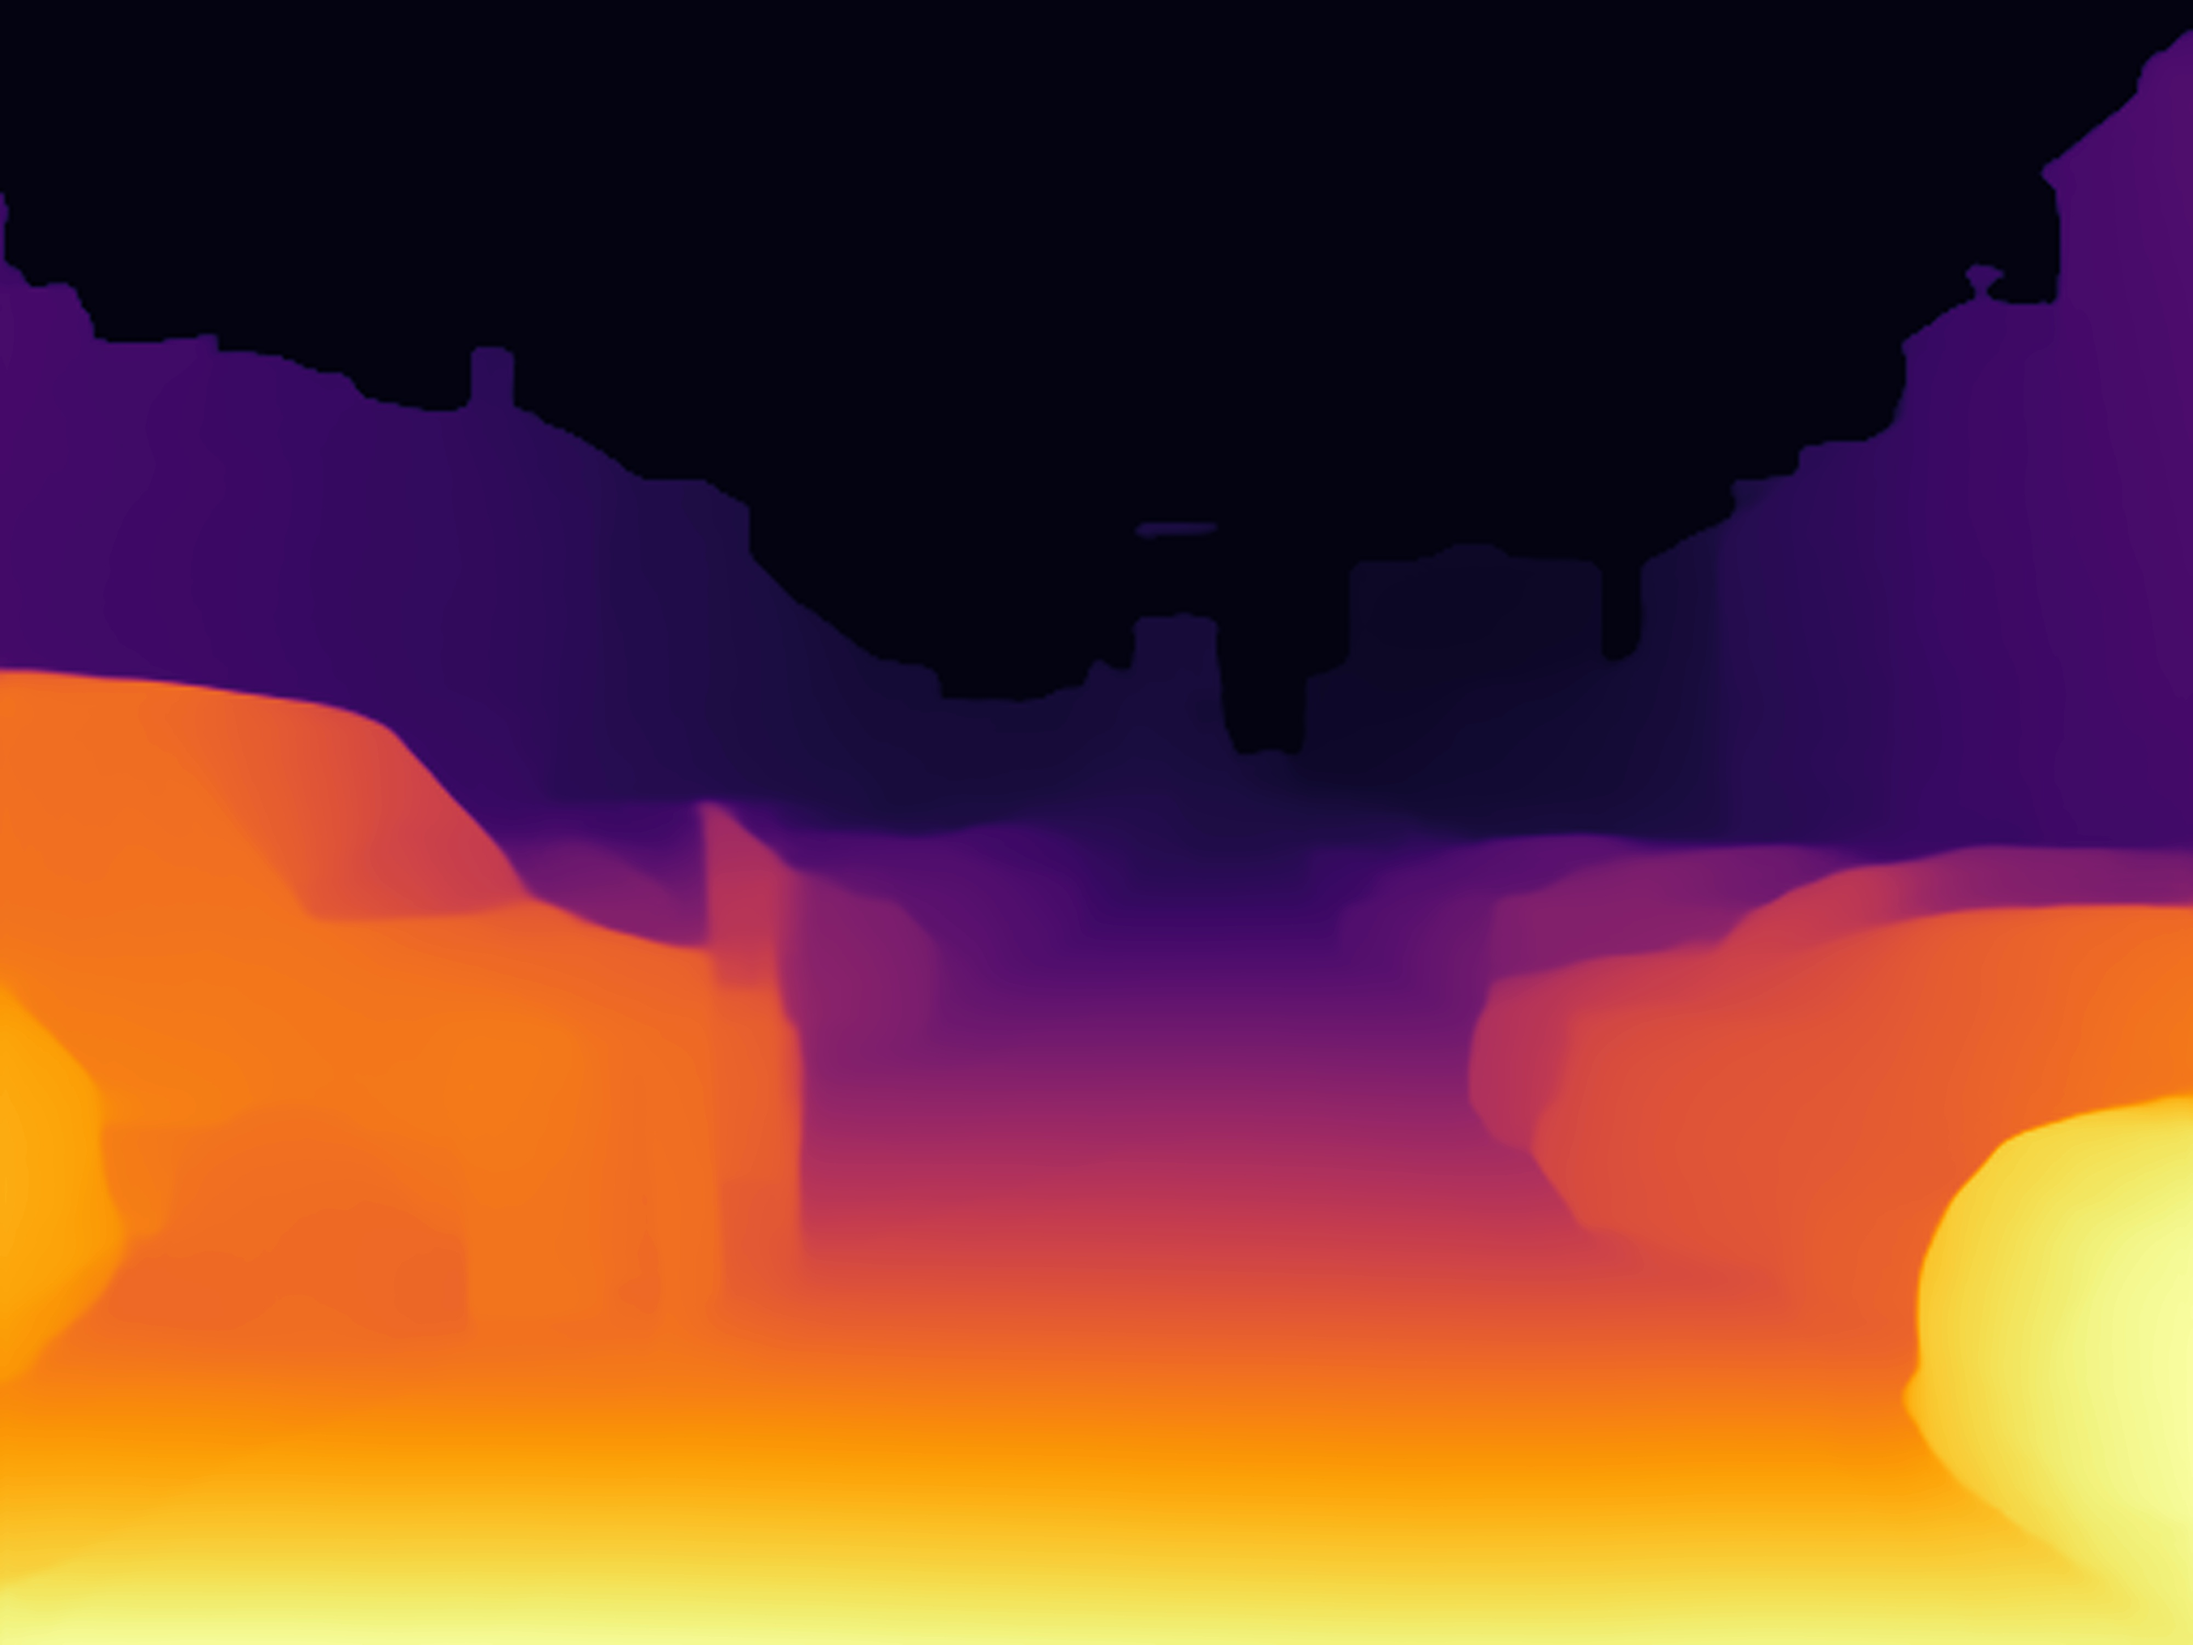
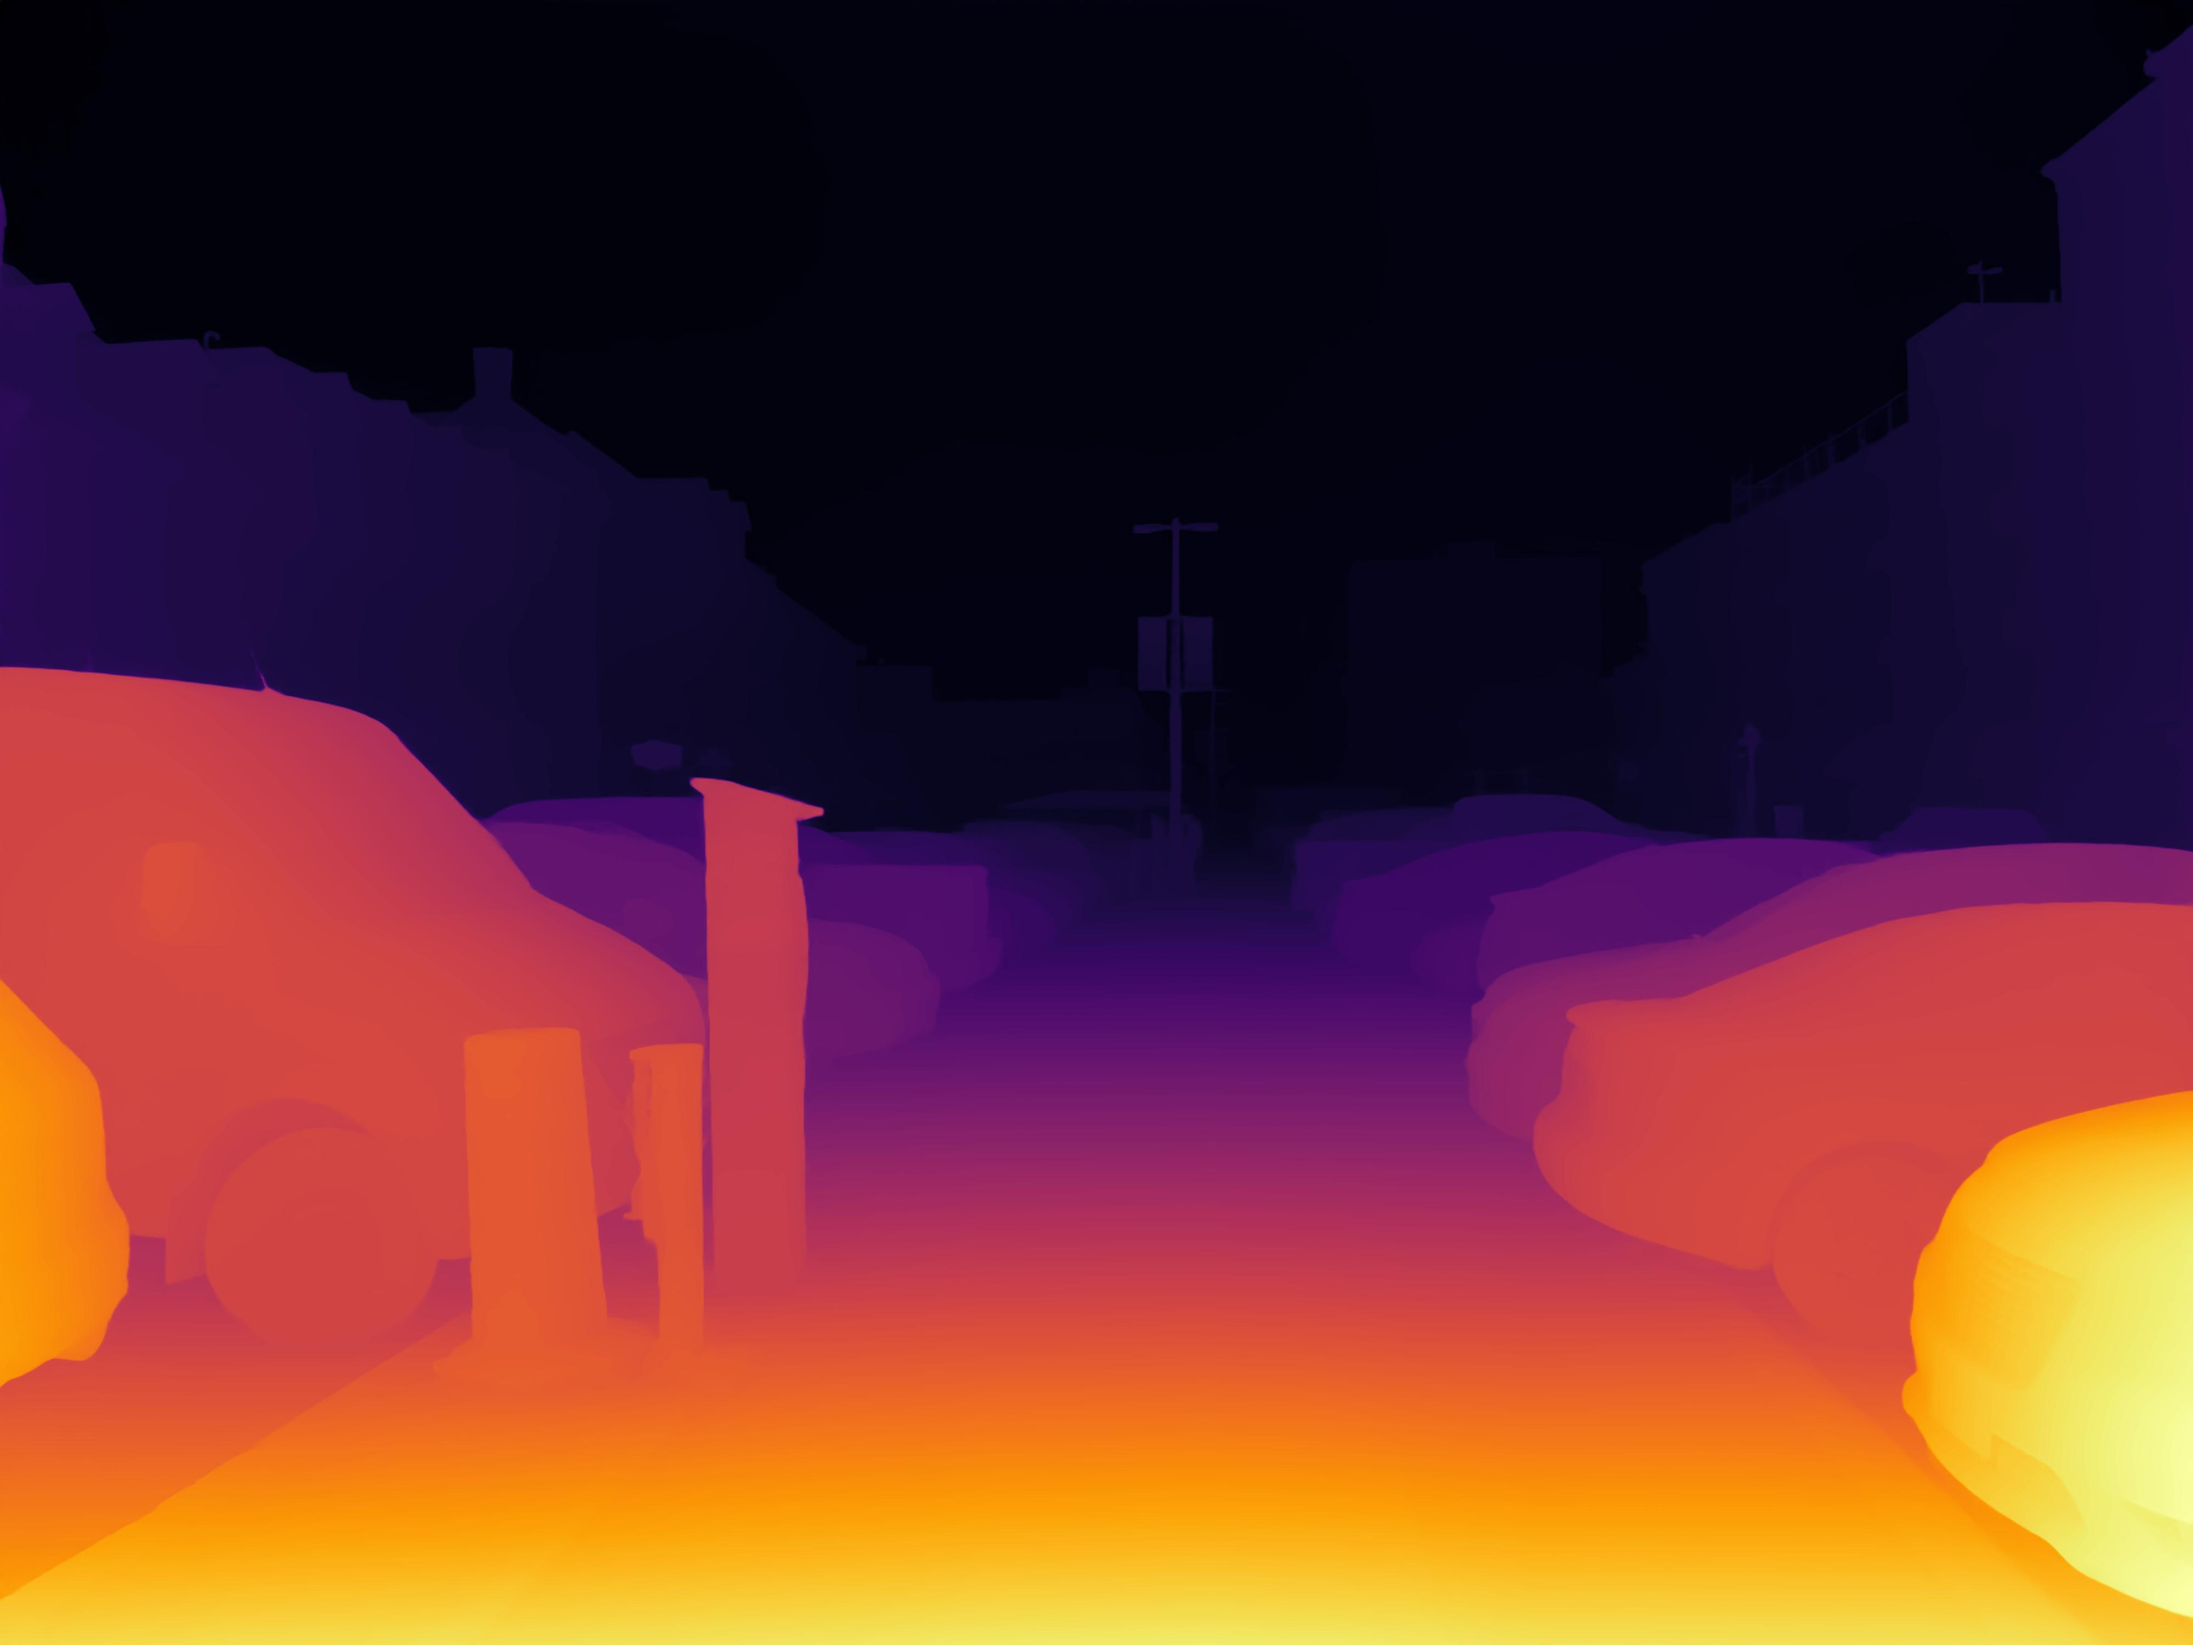
Fixed CUDA and output format.

diff --git a/models/depthpro.py b/models/depthpro.py
@@ -4,7 +4,7 @@ from .depth_pro import create_model_and_transforms, load_rgb
 class DepthPro:
     def load_model(self):
         device = torch.device('cuda') if torch.cuda.is_available() else torch.device('mps') if torch.backends.mps.is_available() else torch.device('cpu')
-        model, transform = create_model_and_transforms(device=device, precision=torch.half)
+        model, transform = create_model_and_transforms(device=device, precision=torch.float32)
         model.eval()
     
         self.device = device
@@ -18,7 +18,7 @@ class DepthPro:
         prediction = self.model.infer(self.transform(image), f_px=f_px)
 
         depth = prediction['depth'].detach().cpu().numpy().squeeze()
-        return depth
+        return 1.0 / depth
     
     def __init__(self):
         self.load_model()
